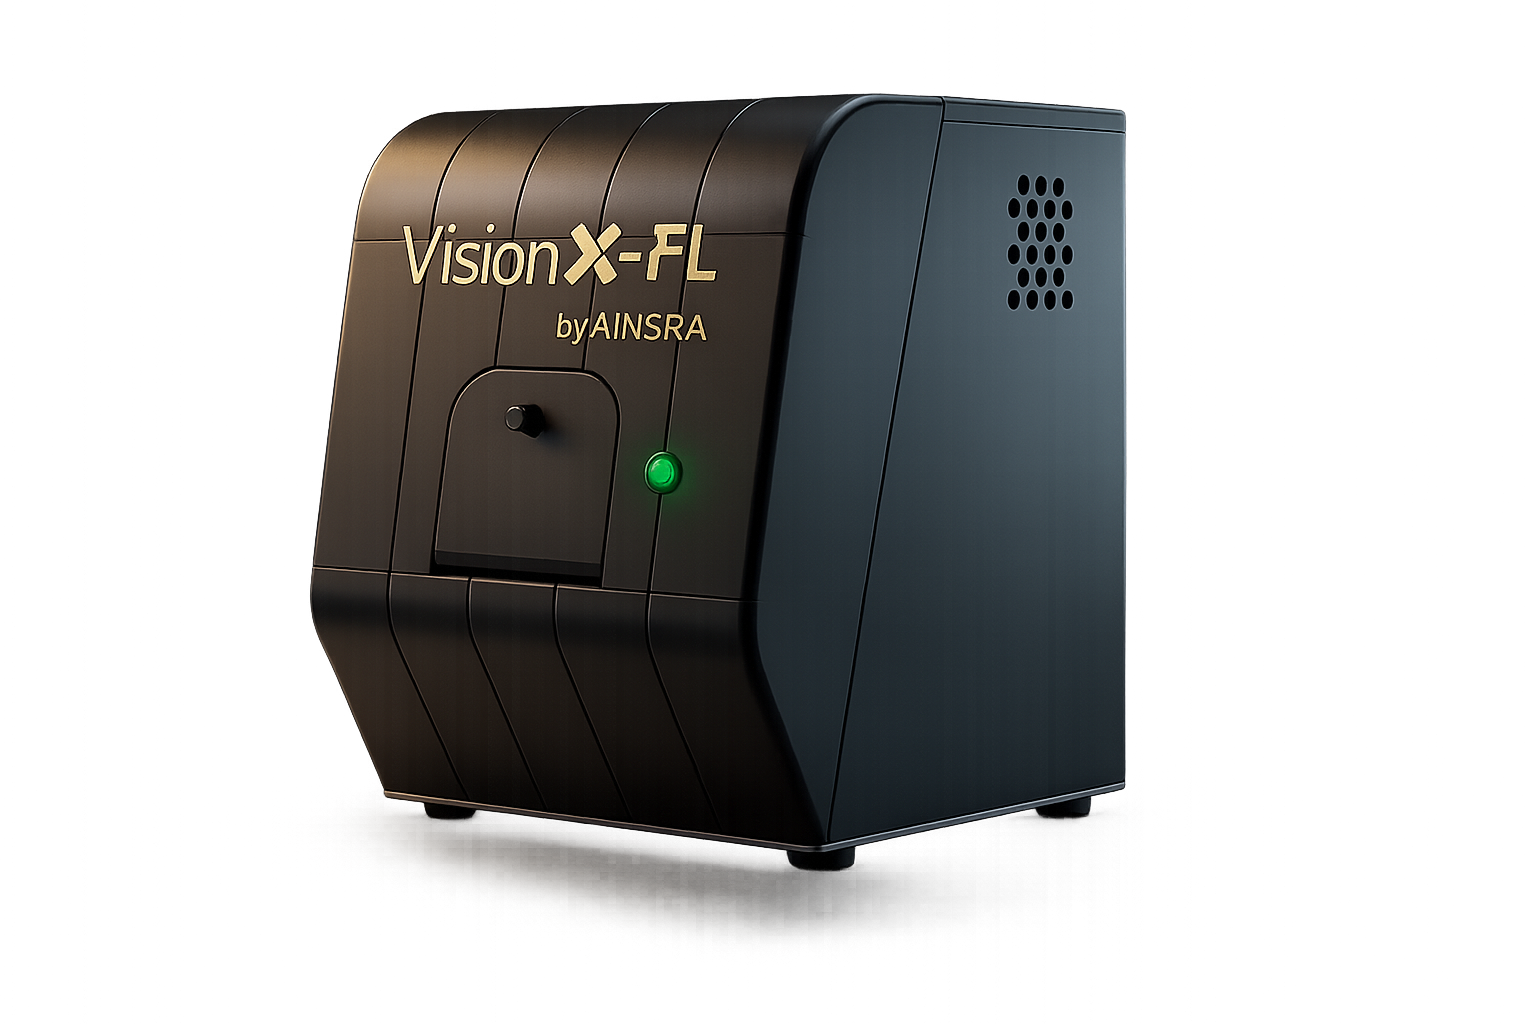
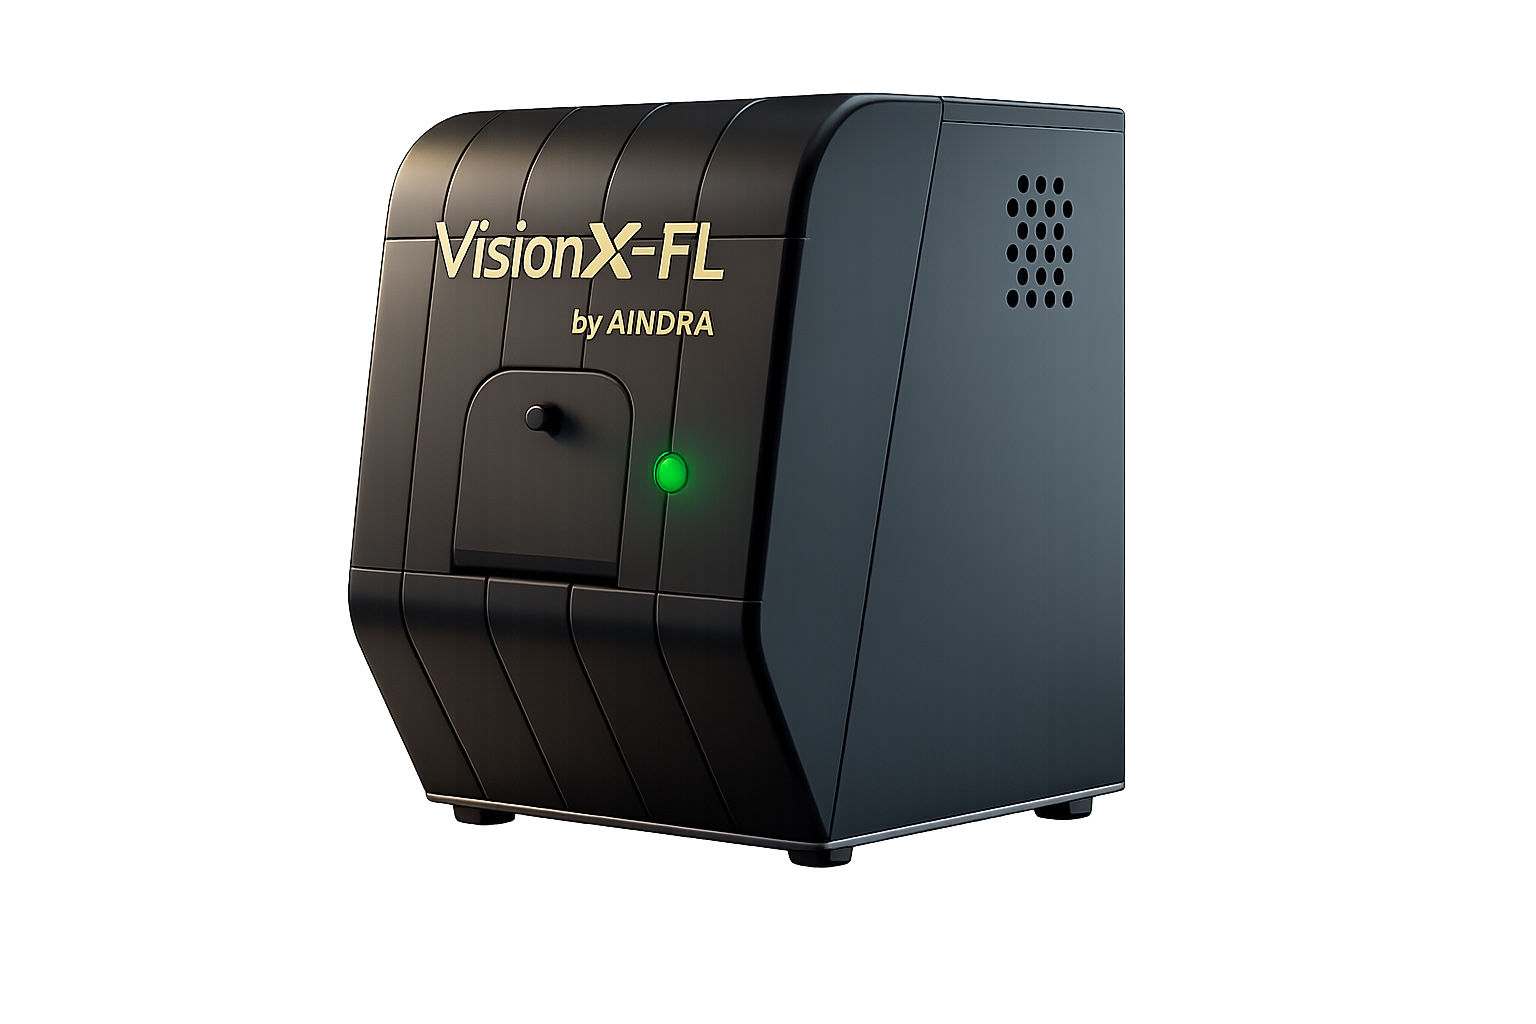
feat(visionx): refine VXF messaging and nav thumbnail presentation
- update VisionX benefits heading for VXF variant with fluorescence-focused copy

- polish product thumbnails in nav menu for cleaner full-image rendering and smoother hover motion

- include updated VXF image asset used by VisionX experience

diff --git a/AindraNewWebsite_Final/components/NavMenu.tsx b/AindraNewWebsite_Final/components/NavMenu.tsx
@@ -32,10 +32,30 @@ export const NavMenu: React.FC<NavMenuProps> = ({ isOpen, onClose }) => {
   ];
 
   const products = [
-    { name: 'Intellistain', href: '#/intellistain', image: intellistainImage, imageClass: 'object-contain scale-95' },
-    { name: 'VisionX', href: '#/visionx', image: visionXImage, imageClass: 'object-contain scale-95' },
-    { name: 'Astra', href: '#/astra', image: astraImage, imageClass: 'object-contain scale-105' },
-    { name: 'Clustr', href: '#/clustr', image: clustrImage, imageClass: 'object-contain scale-95' },
+    {
+      name: 'Intellistain',
+      href: '#/intellistain',
+      image: intellistainImage,
+      imageClass: 'object-contain object-center',
+    },
+    {
+      name: 'VisionX',
+      href: '#/visionx',
+      image: visionXImage,
+      imageClass: 'object-contain object-center',
+    },
+    {
+      name: 'Astra',
+      href: '#/astra',
+      image: astraImage,
+      imageClass: 'object-contain object-center',
+    },
+    {
+      name: 'Clustr',
+      href: '#/clustr',
+      image: clustrImage,
+      imageClass: 'object-contain object-center',
+    },
   ];
 
   return (
@@ -97,11 +117,11 @@ export const NavMenu: React.FC<NavMenuProps> = ({ isOpen, onClose }) => {
                     className={`group flex items-center py-3 md:py-4 border-t ${idx === products.length - 1 ? 'border-b' : ''} border-slate-400/30 transition-all cursor-pointer hover:bg-slate-200/20 px-3 -mx-3 rounded-sm`}
                   >
                     {/* Product Thumbnail */}
-                    <div className="w-12 h-12 md:w-14 md:h-14 flex-shrink-0 mr-4 md:mr-8 rounded-sm overflow-hidden bg-white border border-slate-200 shadow-sm p-1">
+                    <div className="w-12 h-12 md:w-14 md:h-14 flex-shrink-0 mr-4 md:mr-8 rounded-sm overflow-hidden shadow-sm">
                       <img
                         src={product.image}
                         alt={`${product.name} thumbnail`}
-                        className={`w-full h-full ${product.imageClass} transition-transform duration-300`}
+                        className={`w-full h-full ${product.imageClass} transition-all duration-500 ease-out group-hover:scale-105`}
                         loading="lazy"
                       />
                     </div>

diff --git a/AindraNewWebsite_Final/pages/visionx/components/BenefitsSection.tsx b/AindraNewWebsite_Final/pages/visionx/components/BenefitsSection.tsx
@@ -324,6 +324,10 @@ const BenefitsSection: React.FC = () => {
   const currentContent = visionXContent[normalizedVariant];
   const currentBenefits = currentContent.benefits;
   const currentFeatures = currentContent.features;
+  const benefitsHeading =
+    normalizedVariant === 'VXF'
+      ? 'VXF fluorescent slide scanners capture stunning high-resolution fluorescence imaging.'
+      : 'VisionX whole slide scanners deliver fast, high-quality digital pathology imaging with onboard AI.';
 
   useEffect(() => {
     const interval = setInterval(() => {
@@ -412,7 +416,7 @@ const BenefitsSection: React.FC = () => {
             </div>
             <div className="flex-1 mt-0">
               <h2 className="text-[28px] md:text-[34px] lg:text-[40px] font-extrabold leading-[1.2] text-[#111827] tracking-[-0.015em] max-w-[1000px]">
-                VisionX whole slide scanners deliver fast, high-quality digital pathology imaging with onboard AI.
+                {benefitsHeading}
               </h2>
             </div>
           </div>
